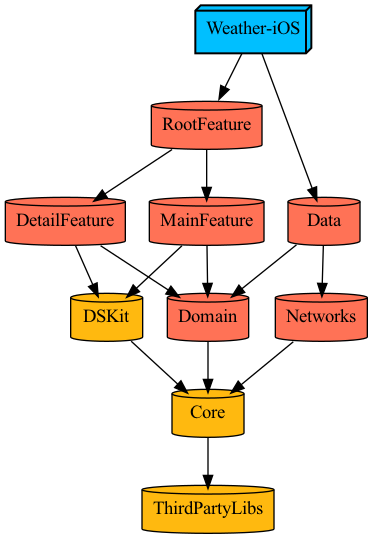
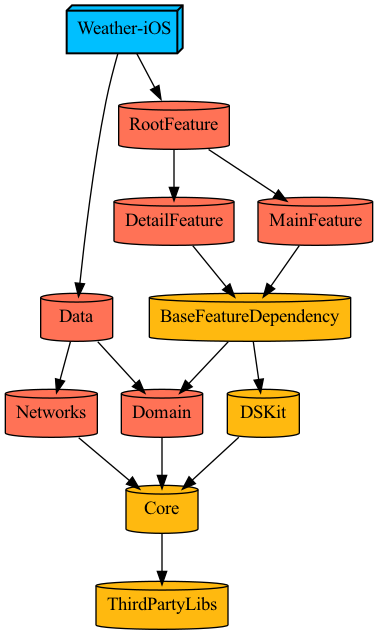
[Feat] main -> detail 코디네이터 패턴 적용 #11

diff --git a/Projects/Features/RootFeature/Sources/AppCoordinator.swift b/Projects/Features/RootFeature/Sources/AppCoordinator.swift
@@ -1,0 +1,54 @@
+//
+//  AppCoordinator.swift
+//  ProjectDescriptionHelpers
+//
+//  Created by 류희재 on 2023/10/30.
+//
+
+import UIKit
+
+import BaseFeatureDependency
+import MainFeature
+import DetailFeature
+
+public class AppCoordinator: Coordinator {
+    
+    public var childCoordinators: [Coordinator] = []
+    private var navigationController: UINavigationController!
+    
+    var isMain: Bool = true
+    
+    public init(navigationController: UINavigationController!) {
+        self.navigationController = navigationController
+    }
+    
+    public func start() {
+        if isMain {
+            showMainViewController()
+        } else {
+//            showDetailViewController(tag)
+        }
+    }
+    
+    private func showMainViewController() {
+        let coordinator = MainCoordinator(navigationController: navigationController)
+        coordinator.delegate = self
+        coordinator.start()
+        self.childCoordinators.append(coordinator)
+        
+    }
+    
+    private func showDetailViewController(_ tag: Int) {
+        let coordinator = DetailCoordinator(navigationController: navigationController)
+//        coordinator.delegate = self
+        coordinator.start(tag)
+        self.childCoordinators.append(coordinator)
+    }
+}
+
+extension AppCoordinator: MainCoordinatorDelegate {
+    public func pushToDetailVC(_ coordinator: MainFeature.MainCoordinator, _ tag: Int) {
+        self.childCoordinators = self.childCoordinators.filter { $0 !== coordinator }
+        self.showDetailViewController(tag)
+    }
+}

diff --git a/Projects/Features/MainFeature/Sources/ViewController/MainViewController.swift b/Projects/Features/MainFeature/Sources/ViewController/MainViewController.swift
@@ -18,9 +18,15 @@ import RxSwift
 import RxGesture
 import RxCocoa
 
+protocol MainViewControllerDelegate: AnyObject {
+    func pushToDetailVC(_ tag: Int)
+}
+
 public final class MainViewController : UIViewController {
     
     //MARK: - Properties
+    
+    weak var mainDelegate: MainViewControllerDelegate?
     
     public let viewModel: MainViewModel
     private let disposeBag = DisposeBag()
@@ -53,7 +59,7 @@ public final class MainViewController : UIViewController {
         super.viewDidLoad()
         
         style()
-        delegate()
+        setDelegate()
         
         bindViewModel()
     }
@@ -102,7 +108,7 @@ public final class MainViewController : UIViewController {
         weatherSearchController.searchBar.searchTextField.textColor = .white
     }
     
-    private func delegate() {
+    private func setDelegate() {
         weatherSearchController.searchResultsUpdater = self
     }
     
@@ -139,15 +145,7 @@ public final class MainViewController : UIViewController {
 
 extension MainViewController: MainViewWeatherListDelegate {
     func weatherViewDidTap(_ tag: Int) {
-        let detailVC = DetailPageViewController(
-            viewModel: DetailViewModel(
-                detailUseCase: DefaultDetailUseCase.init(
-                    tag,
-                    WeatherModel.weatherData
-                )
-            )
-        )
-        self.navigationController?.pushViewController(detailVC, animated: true)
+        self.mainDelegate?.pushToDetailVC(tag)
     }
 }
 

diff --git a/Projects/App/Sources/Application/SceneDelegate.swift b/Projects/App/Sources/Application/SceneDelegate.swift
@@ -8,31 +8,28 @@
 import UIKit
 
 import Domain
-import MainFeature
-import DetailFeature
+import RootFeature
 
 class SceneDelegate: UIResponder, UIWindowSceneDelegate {
     
     var window: UIWindow?
     
     func scene(_ scene: UIScene, willConnectTo session: UISceneSession, options connectionOptions: UIScene.ConnectionOptions) {
+        
+        if let windowScene = scene as? UIWindowScene {
             
-            // 1.
-            guard let windowScene = (scene as? UIWindowScene) else { return }
-        // 2.
-            self.window = UIWindow(windowScene: windowScene)
-        // 3.
-            let navigationController = UINavigationController(
-                rootViewController: MainViewController(
-                viewModel: MainViewModel(
-                    mainUseCase: DefaultMainUseCase()
-                    )
-                )
-            )
+            let window = UIWindow(windowScene: windowScene)
+            self.window = window
+            
+            let navigationController = UINavigationController()
             self.window?.rootViewController = navigationController
-        // 4.
+            
+            let coordinator = AppCoordinator(navigationController: navigationController)
+            coordinator.start()
+            
             self.window?.makeKeyAndVisible()
         }
+    }
     
     
     func sceneDidDisconnect(_ scene: UIScene) {}

diff --git a/Projects/Features/MainFeature/Sources/Coordinator/MainCoordinator.swift b/Projects/Features/MainFeature/Sources/Coordinator/MainCoordinator.swift
@@ -1,0 +1,44 @@
+//
+//  MainCoordinator.swift
+//  MainFeature
+//
+//  Created by 류희재 on 2023/10/30.
+//  Copyright © 2023 hellohidi. All rights reserved.
+//
+
+import UIKit
+
+import BaseFeatureDependency
+import Domain
+
+public protocol MainCoordinatorDelegate {
+    func pushToDetailVC(_ coordinator: MainCoordinator, _ tag: Int)
+}
+
+public class MainCoordinator: Coordinator {
+    
+    public var childCoordinators: [Coordinator] = []
+    public var delegate: MainCoordinatorDelegate?
+    
+    private var navigationController: UINavigationController!
+    
+    public init(navigationController: UINavigationController) {
+        self.navigationController = navigationController
+    }
+    
+    public func start() {
+        let viewController = MainViewController(
+            viewModel: MainViewModel(
+                mainUseCase: DefaultMainUseCase()
+            )
+        )
+        viewController.mainDelegate = self
+        self.navigationController.pushViewController(viewController, animated: true)
+    }
+}
+
+extension MainCoordinator: MainViewControllerDelegate {
+    func pushToDetailVC(_ tag: Int) {
+        delegate?.pushToDetailVC(self, tag)
+    }
+}

diff --git a/Projects/Features/DetailFeature/Sources/Coordinator/DetailCoordinator.swift b/Projects/Features/DetailFeature/Sources/Coordinator/DetailCoordinator.swift
@@ -1,0 +1,33 @@
+//
+//  DetailCoordinator.swift
+//  DetailFeature
+//
+//  Created by 류희재 on 2023/10/30.
+//  Copyright © 2023 hellohidi. All rights reserved.
+
+
+import UIKit
+
+import BaseFeatureDependency
+import Domain
+
+public class DetailCoordinator: Coordinator {
+    
+    public var childCoordinators: [Coordinator] = []
+    
+    private var navigationController: UINavigationController!
+    
+    public init(navigationController: UINavigationController) {
+        self.navigationController = navigationController
+    }
+    
+    public func start(_ currentPage: Int) {
+        let viewController = DetailPageViewController(
+            viewModel: DetailViewModel(
+                detailUseCase: DefaultDetailUseCase.init(currentPage)
+            )
+        )
+        self.navigationController.pushViewController(viewController, animated: true)
+    }
+}
+

diff --git a/Projects/Features/MainFeature/Sources/View/MainWeatherListView.swift b/Projects/Features/MainFeature/Sources/View/MainWeatherListView.swift
@@ -49,11 +49,7 @@ final class MainWeatherListView: UIView {
         hieararchy()
         layout()
         
-        tapGesture.rx.event
-            .bind { [weak self] _ in
-                self?.delegate?.weatherViewDidTap(self!.tag)
-            }
-            .disposed(by: disposeBag)
+        bindUI()
     }
     
     required init?(coder: NSCoder) {
@@ -150,6 +146,13 @@ final class MainWeatherListView: UIView {
             $0.top.equalTo(maximumTemparatureLabel)
             $0.trailing.equalToSuperview().inset(20)
         }
+    }
+    
+    private func bindUI() {
+        tapGesture.rx.event
+            .bind { [weak self] _ in
+                self?.delegate?.weatherViewDidTap(self!.tag)
+            }.disposed(by: disposeBag)
     }
     
     func dataBind(_ data: WeatherModel) {

diff --git a/Plugins/DependencyPlugin/ProjectDescriptionHelpers/Dependency+Project.swift b/Plugins/DependencyPlugin/ProjectDescriptionHelpers/Dependency+Project.swift
@@ -41,13 +41,10 @@ public extension Dep.Modules {
 
 public extension Dep.Features {
     static func project(name: String, group: String) -> Dep { .project(target: "\(group)\(name)", path: .relativeToFeature("\(group)\(name)")) }
-}
-
-public extension Dep.Features.Root {
-    static let group = "Root"
     
-    static let Feature = Dep.Features.project(name: "Feature", group: group)
-    static let Interface = Dep.Features.project(name: "\(group)FeatureInterface", group: group)
+    static let BaseFeatureDependency = TargetDependency.project(target: "BaseFeatureDependency", path: .relativeToFeature("BaseFeatureDependency"))
+    
+    static let RootFeature = TargetDependency.project(target: "RootFeature", path: .relativeToFeature("RootFeature"))
 }
 
 public extension Dep.Features.Main {

diff --git a/Projects/Domain/Sources/UseCase/DefaultDetailUseCase.swift b/Projects/Domain/Sources/UseCase/DefaultDetailUseCase.swift
@@ -12,12 +12,11 @@ import RxSwift
 import RxCocoa
 
 public final class DefaultDetailUseCase: DetailUseCase {    
-    public var weatherList = BehaviorRelay<[WeatherModel]>(value: [])
+    public var weatherList = BehaviorRelay<[WeatherModel]>(value: WeatherModel.weatherData)
     public var currentPage = BehaviorRelay<Int>(value: Int())
     
-    public init(_ currentPage: Int, _ weatherList: [WeatherModel]) {
+    public init(_ currentPage: Int) {
         self.currentPage.accept(currentPage)
-        self.weatherList.accept(weatherList)
     }
     
     public func updateCurrentPage(_ page: Int) {

diff --git a/Projects/Features/BaseFeatureDependency/Project.swift b/Projects/Features/BaseFeatureDependency/Project.swift
@@ -2,7 +2,7 @@
 //  Project.swift
 //  ProjectDescriptionHelpers
 //
-//  Created by 류희재 on 2023/10/19.
+//  Created by 류희재 on 2023/10/30.
 //
 
 import ProjectDescription
@@ -10,10 +10,11 @@ import ProjectDescriptionHelpers
 import DependencyPlugin
 
 let project = Project.makeModule(
-    name: "MainFeature",
-    product: .staticFramework,
+    name: "BaseFeatureDependency",
+    product: .framework,
     dependencies: [
-        .Features.BaseFeatureDependency
+        .Modules.dsKit,
+        .domain
     ],
     sources: ["Sources/**"]
 )

diff --git a/Projects/Features/DetailFeature/Project.swift b/Projects/Features/DetailFeature/Project.swift
@@ -13,8 +13,7 @@ let project = Project.makeModule(
     name: "DetailFeature",
     product: .staticFramework,
     dependencies: [
-        .Modules.dsKit,
-        .domain
+        .Features.BaseFeatureDependency
     ],
     sources: ["Sources/**"]
 )

diff --git a/Projects/App/Project.swift b/Projects/App/Project.swift
@@ -14,7 +14,7 @@ let project = Project.makeModule(
     name: Environment.workspaceName,
     product: .app,
     dependencies: [
-        .Features.Root.Feature,
+        .Features.RootFeature,
         .data
     ],
     sources: ["Sources/**"],

diff --git a/Projects/Features/BaseFeatureDependency/Sources/Coordinator.swift b/Projects/Features/BaseFeatureDependency/Sources/Coordinator.swift
@@ -1,0 +1,11 @@
+//
+//  Coordinator.swift
+//  ProjectDescriptionHelpers
+//
+//  Created by 류희재 on 2023/10/30.
+//
+
+public protocol Coordinator : AnyObject {
+    var childCoordinators : [Coordinator] { get set }
+    
+}
